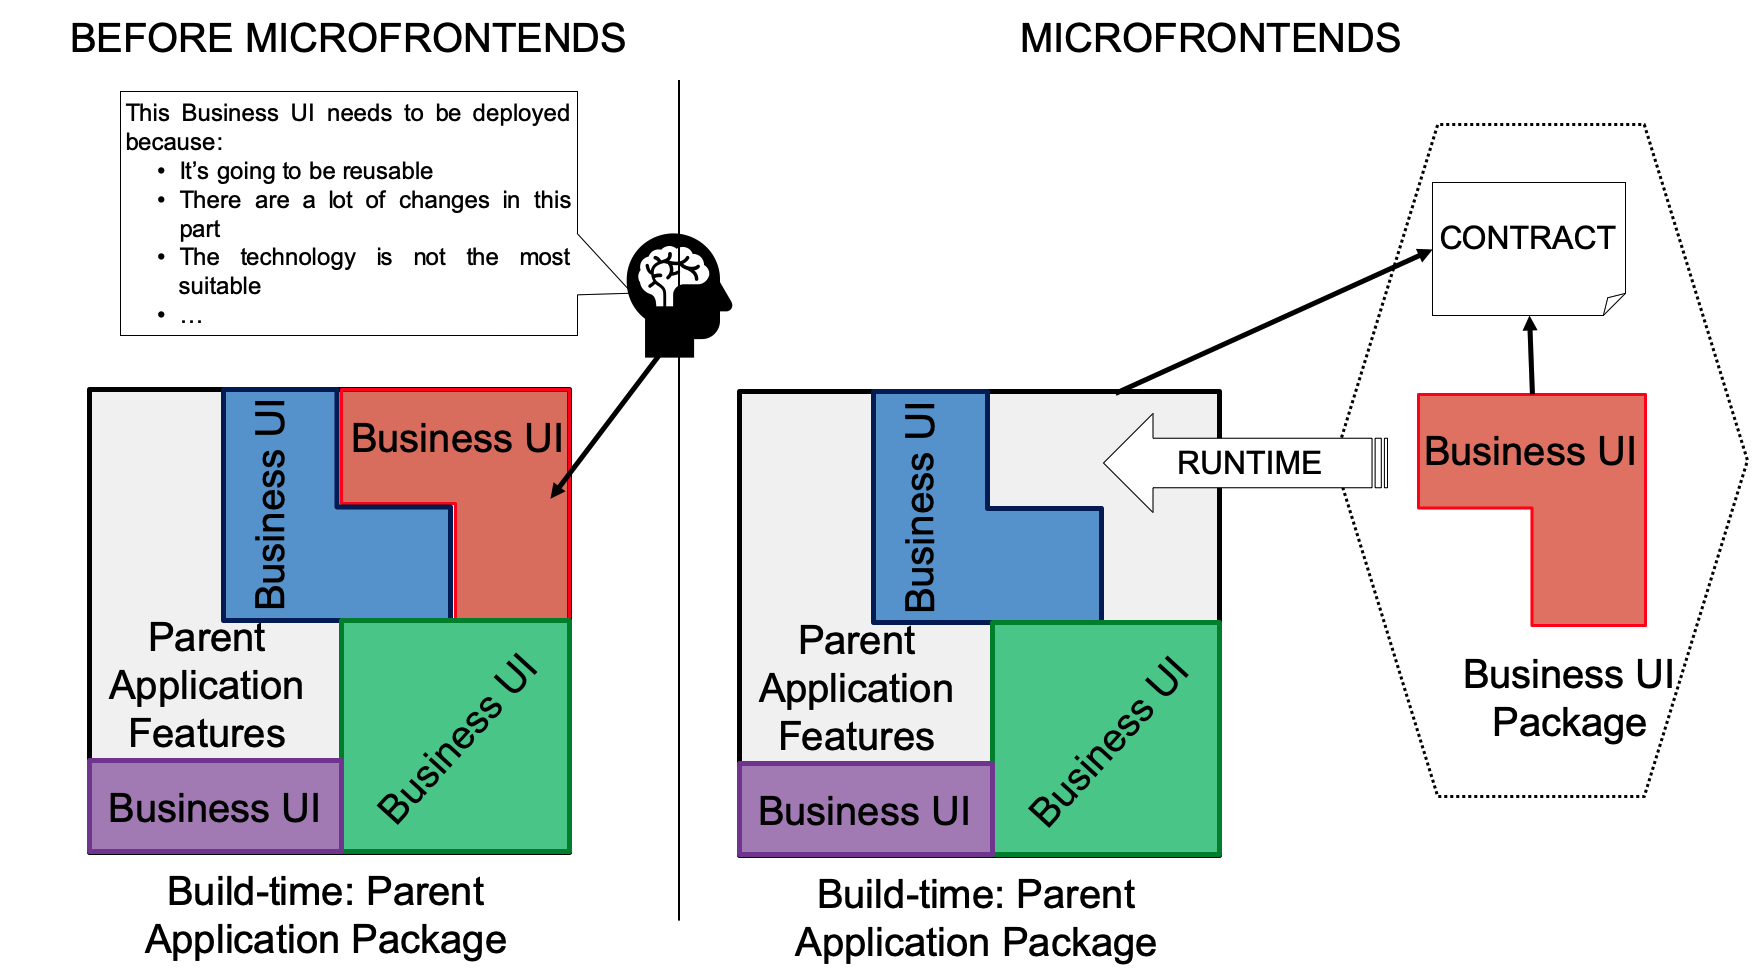
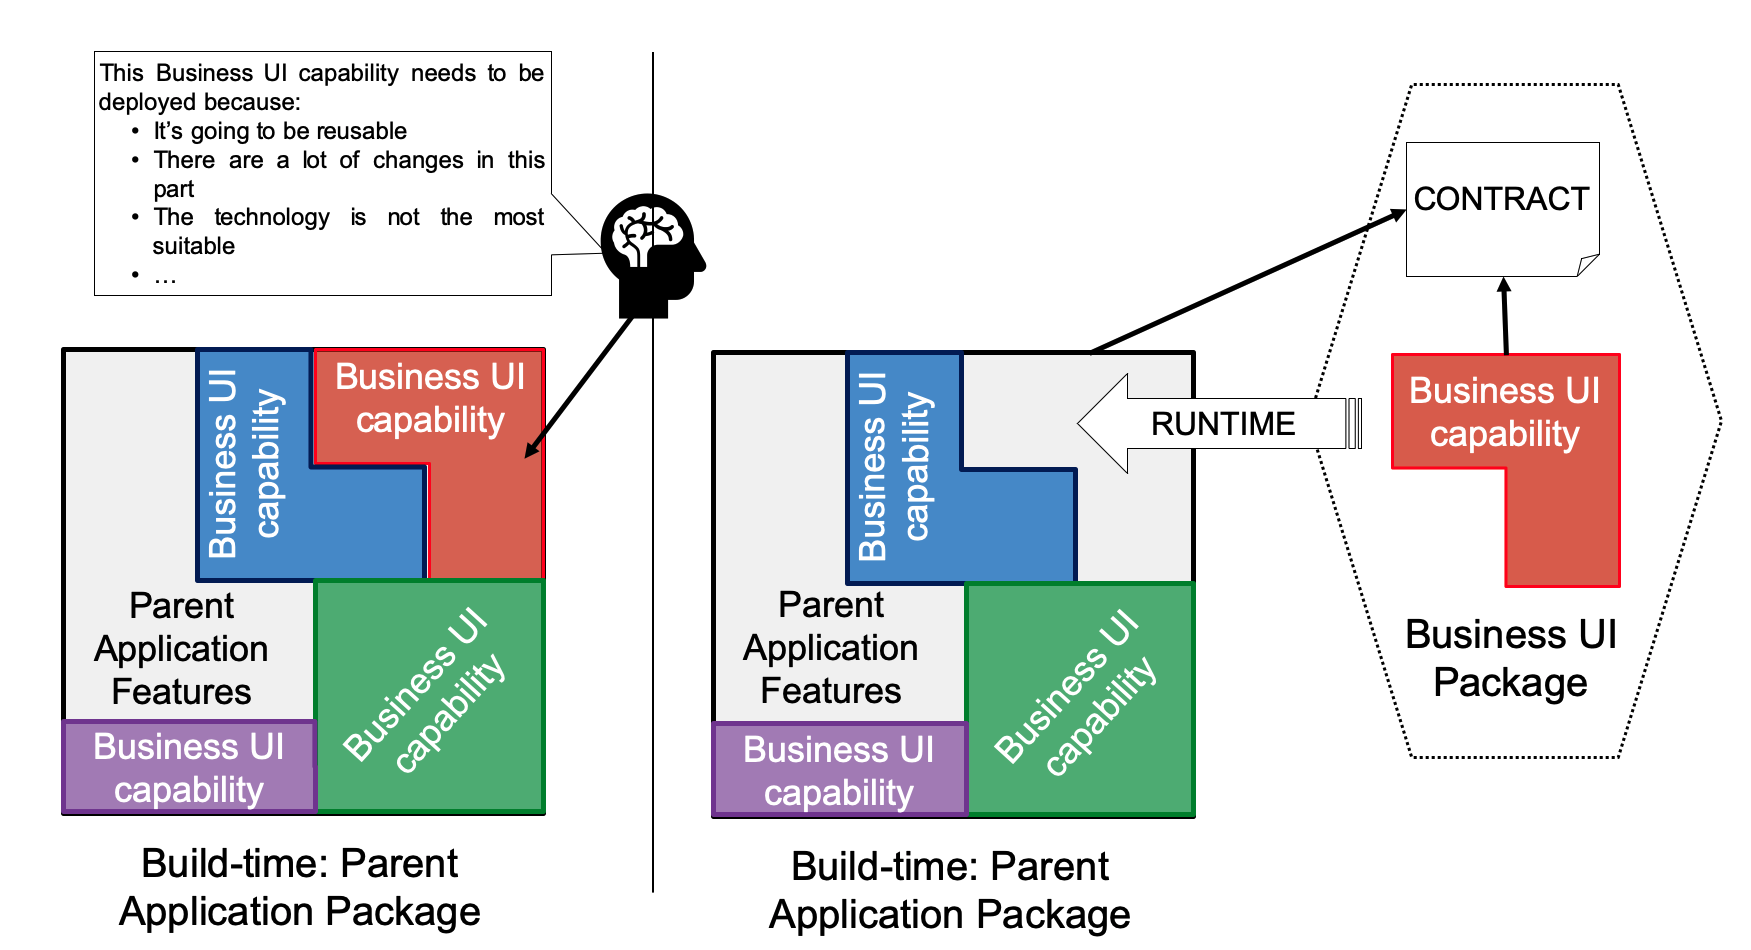
Microfrontends - update

diff --git a/_posts/2019-08-15-microfrontends.md b/_posts/2019-08-15-microfrontends.md
@@ -109,9 +109,9 @@ It we can isolate business capabilities in the frontend part (UI and Backend For
 
 # Microfrontends: fully business components
 
-So, if we could build independent and fully business components, composed of all the necessary elements (data, services, integrations and user interface), versionables, developed, owned and maintained by a team and **loaded and integrated at runtime in the application** used by end users? They would be like little products
+As we saw in the previous section, if we could build independent and fully business components, composed of all the necessary elements, versionables, developed, owned and maintained by a team and **loaded and integrated at runtime in the application** we are building little products
 
-![why_microfrontends](/images/microfrontends/microfrontends-idea.png)
+![microfrontends-idea](/images/microfrontends/microfrontends-idea.png)
 
 
 
